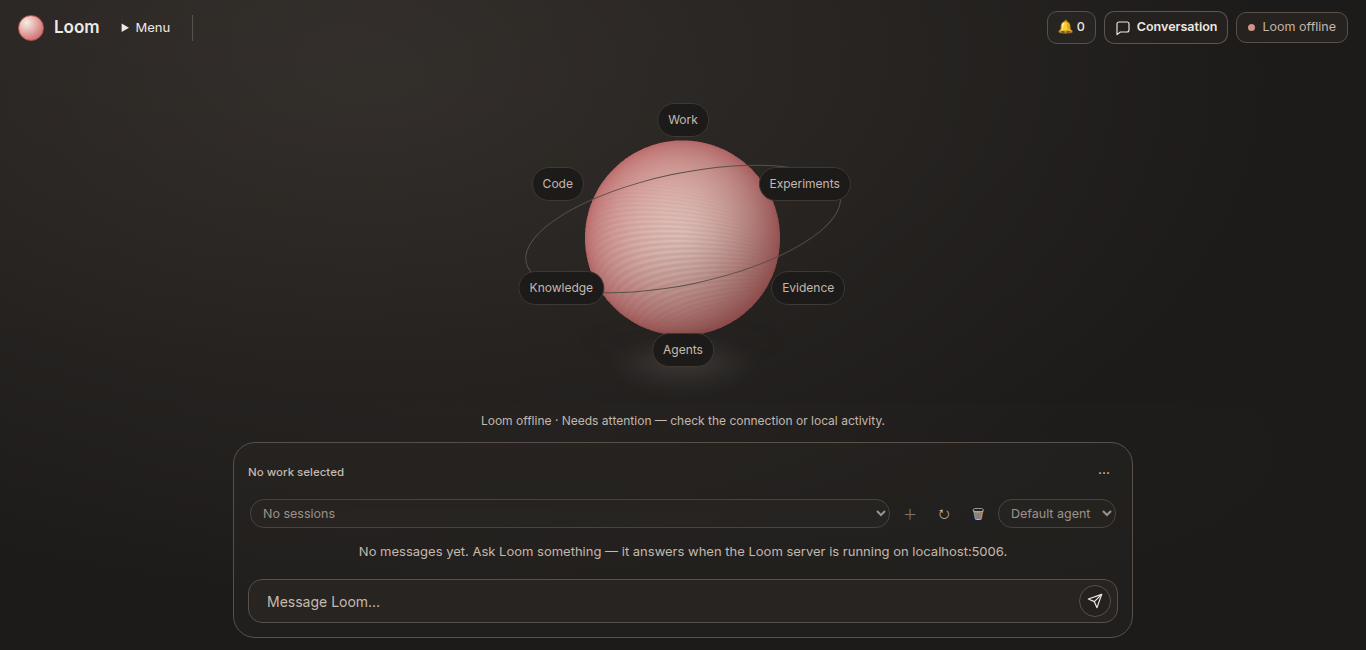
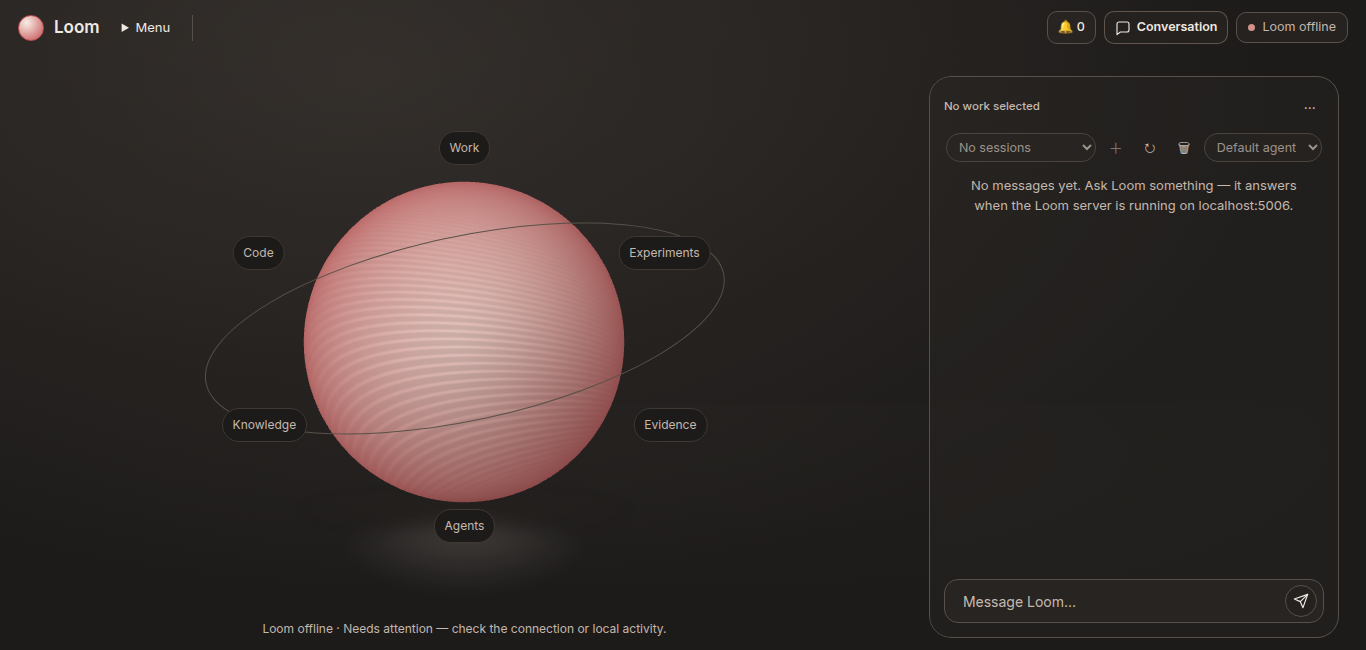
Extend Overview conversation to the window bottom
The Overview chat card was top-aligned in the right column and capped at
60dvh, leaving a large empty gap below it. Stretch the column to the grid
row, let the chat panel fill it (flush with the 12px shell gap), and keep
the message log scrolling internally with the composer pinned at the
bottom. The narrow-viewport floating drawer anchors to the bottom too.

Update the browser smoke to assert the panel reaches the bottom and holds
a fixed height while the log scrolls, and refresh the workspace evidence.

diff --git a/src/style.css b/src/style.css
@@ -3903,21 +3903,21 @@ body.right-hidden .scene[data-mode="spatial"] .main {
 body.right-hidden .scene[data-mode="spatial"] .right-col {
   display: none; position: relative; inset: auto; width: auto; order: initial;
   transform: none; visibility: visible; transition: none;
-  align-self: start; max-height: 100%;
+  align-self: stretch;
   background: transparent; border: 0; box-shadow: none; backdrop-filter: none;
 }
 #view-spatial { gap: 12px; overflow: visible; }
 .spatial-stage { position: relative; display: flex; flex: 1; min-height: 260px; }
 #spatial-chat-slot { display: none; }
-.scene[data-mode="spatial"] #spatial-chat-slot { display: flex; flex-shrink: 1; min-height: 0; width: 100%; }
+.scene[data-mode="spatial"] #spatial-chat-slot { display: flex; flex: 1 1 auto; min-height: 0; width: 100%; }
 .scene[data-mode="spatial"] #spatial-chat-slot:has(#chat-panel[hidden]) { display: none; }
 .scene[data-mode="spatial"] .chat-panel {
-  flex: 0 1 auto; height: auto; max-height: clamp(240px, 60dvh, 620px);
+  flex: 1 1 auto; min-height: 0;
   width: 100%; border: 1px solid var(--line); border-radius: 22px;
   background: rgb(var(--theme-surface-rgb) / .35); padding: 14px;
 }
-/* Intrinsic content grows the panel as tokens arrive; overflow stays in the log. */
-.scene[data-mode="spatial"] .chat-log { flex: 0 1 auto; }
+/* The panel fills the column to the bottom; the log scrolls inside it. */
+.scene[data-mode="spatial"] .chat-log { flex: 1 1 auto; }
 .scene[data-mode="spatial"] :is(.right-head, .right-resize, .drawer-close) { display: none; }
 .scene[data-mode="spatial"] #inspector-context { flex: 0 1 auto; padding: 0; }
 .scene[data-mode="spatial"] #inspector-context:not(:has(#attention-panel:not([hidden]))) { display: none; }
@@ -3939,8 +3939,8 @@ body.right-hidden .scene[data-mode="spatial"] .right-col {
   .scene[data-mode="spatial"] .center { height: calc(100dvh - 96px); min-height: 500px; }
   .scene[data-mode="spatial"] .right-col { grid-column: 1; min-height: 220px; overflow: visible; }
   .scene[data-mode="spatial"] .right-col:has(#chat-panel:not([hidden])) {
-    position: fixed; top: var(--header-offset, var(--header-h)); right: 12px; left: auto; bottom: auto;
-    width: min(440px, calc(100vw - 24px)); max-height: calc(100dvh - var(--header-h) - 12px);
+    position: fixed; top: var(--header-offset, var(--header-h)); right: 12px; left: auto; bottom: 12px;
+    width: min(440px, calc(100vw - 24px));
     min-height: 0; z-index: 40;
   }
   .scene[data-mode="spatial"] .chat-panel { background: var(--reading); }

diff --git a/docs/babylon-migration/decisions.md b/docs/babylon-migration/decisions.md
@@ -49,11 +49,11 @@ Babylon backgrounds are introduced. The player canvas remains transparent.
 
 DOM/CSS/TypeScript. No text or cards in 3D. Babylon renders only the sphere
 and its minimal ambience; background gradient, shadow, reflection and
-typography live in CSS/DOM. The latest layout request places the existing
-conversation below the sphere, centered at up to 900px wide. Its intrinsic
-height grows with reply content, capped at `clamp(180px, 35dvh, 360px)`; longer
-responses scroll inside the log. The sphere stage retains at least 260px.
-No separate resizing observer or alternate conversation is introduced.
+typography live in CSS/DOM. The conversation lives in the right column of the
+Overview, toggled from the header, and extends flush to the bottom of the
+window, leaving the shell gap; longer responses scroll inside the log. The
+sphere stage retains at least 260px. No separate resizing observer or
+alternate conversation is introduced.
 
 The decorative top-right avatar sphere and Agentic Collaboration card are
 removed. Overview has no empty sidebar: the context column appears only when

diff --git a/docs/DESIGN_PROGRESS.md b/docs/DESIGN_PROGRESS.md
@@ -290,3 +290,13 @@ Final verification in `judge/verdicts/20261117-205511.md`: 147 frontend,
 145 Tauri passed / 2 ignored, 22 native, build, scoped fmt, four layouts and
 32 rendered-state captures passed. Live model turns and native-window pixels
 were not checked.
+
+
+## Conversation extends to the window bottom — 17 November 2026
+
+The Overview conversation (right column) now extends flush to the bottom of the
+window, leaving the 12px shell gap, instead of a compact card capped at 60dvh.
+The message log scrolls inside the panel while the composer stays pinned at the
+bottom; the panel height no longer grows or shrinks with reply length. The
+sphere keeps its 260px minimum. Browser smoke now asserts the panel reaches the
+bottom and that its height stays fixed while the log scrolls.
